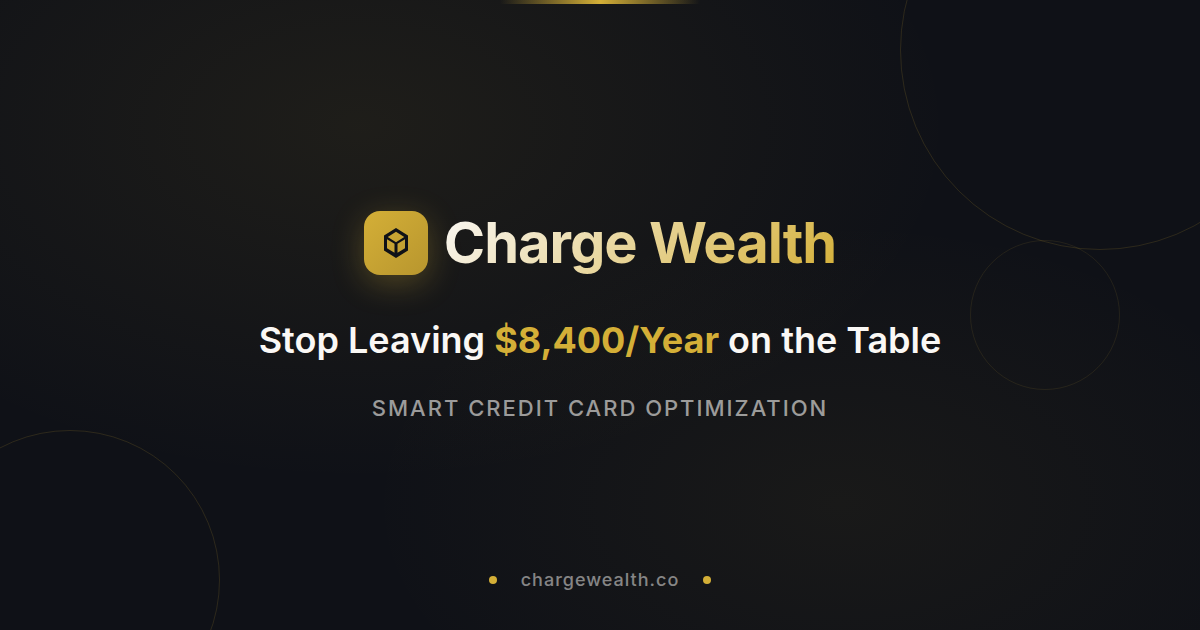
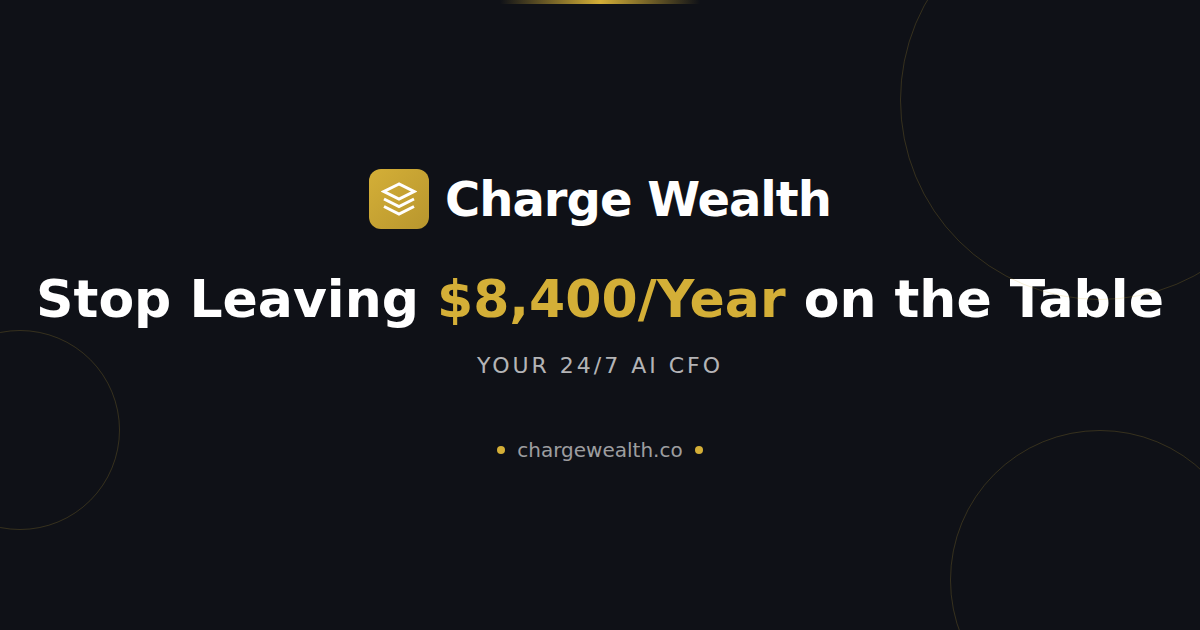
Update OG image: change tagline to 'Your 24/7 AI CFO'

diff --git a/public/og-image-template.html b/public/og-image-template.html
@@ -1,0 +1,145 @@
+<!DOCTYPE html>
+<html>
+<head>
+  <meta charset="UTF-8">
+  <style>
+    * {
+      margin: 0;
+      padding: 0;
+      box-sizing: border-box;
+    }
+    body {
+      width: 1200px;
+      height: 630px;
+      background: #0F1117;
+      font-family: -apple-system, BlinkMacSystemFont, 'Segoe UI', Roboto, sans-serif;
+      display: flex;
+      flex-direction: column;
+      align-items: center;
+      justify-content: center;
+      position: relative;
+      overflow: hidden;
+    }
+    /* Decorative circles */
+    .circle {
+      position: absolute;
+      border-radius: 50%;
+      border: 1px solid rgba(212, 175, 55, 0.2);
+    }
+    .circle-1 {
+      width: 400px;
+      height: 400px;
+      right: -100px;
+      top: -100px;
+    }
+    .circle-2 {
+      width: 300px;
+      height: 300px;
+      right: -50px;
+      bottom: -100px;
+    }
+    .circle-3 {
+      width: 200px;
+      height: 200px;
+      left: -80px;
+      bottom: 100px;
+    }
+    /* Top accent bar */
+    .top-bar {
+      position: absolute;
+      top: 0;
+      left: 50%;
+      transform: translateX(-50%);
+      width: 200px;
+      height: 4px;
+      background: linear-gradient(90deg, transparent, #D4AF37, transparent);
+    }
+    /* Logo and brand */
+    .brand {
+      display: flex;
+      align-items: center;
+      gap: 16px;
+      margin-bottom: 40px;
+    }
+    .logo-box {
+      width: 60px;
+      height: 60px;
+      background: linear-gradient(135deg, #D4AF37, #B8962E);
+      border-radius: 12px;
+      display: flex;
+      align-items: center;
+      justify-content: center;
+    }
+    .logo-icon {
+      width: 36px;
+      height: 36px;
+    }
+    .brand-name {
+      font-size: 48px;
+      font-weight: 700;
+      color: white;
+      letter-spacing: -1px;
+    }
+    /* Main headline */
+    .headline {
+      font-size: 52px;
+      font-weight: 600;
+      color: white;
+      margin-bottom: 24px;
+      text-align: center;
+    }
+    .headline .gold {
+      color: #D4AF37;
+    }
+    /* Tagline */
+    .tagline {
+      font-size: 22px;
+      color: rgba(255, 255, 255, 0.7);
+      letter-spacing: 3px;
+      text-transform: uppercase;
+      margin-bottom: 60px;
+    }
+    /* Footer */
+    .footer {
+      display: flex;
+      align-items: center;
+      gap: 12px;
+      color: rgba(255, 255, 255, 0.6);
+      font-size: 20px;
+    }
+    .dot {
+      width: 8px;
+      height: 8px;
+      background: #D4AF37;
+      border-radius: 50%;
+    }
+  </style>
+</head>
+<body>
+  <div class="circle circle-1"></div>
+  <div class="circle circle-2"></div>
+  <div class="circle circle-3"></div>
+  <div class="top-bar"></div>
+  
+  <div class="brand">
+    <div class="logo-box">
+      <svg class="logo-icon" viewBox="0 0 24 24" fill="none" stroke="white" stroke-width="2">
+        <path d="M12 2L2 7l10 5 10-5-10-5z"/>
+        <path d="M2 17l10 5 10-5"/>
+        <path d="M2 12l10 5 10-5"/>
+      </svg>
+    </div>
+    <span class="brand-name">Charge Wealth</span>
+  </div>
+  
+  <h1 class="headline">Stop Leaving <span class="gold">$8,400/Year</span> on the Table</h1>
+  
+  <p class="tagline">Your 24/7 AI CFO</p>
+  
+  <div class="footer">
+    <span class="dot"></span>
+    <span>chargewealth.co</span>
+    <span class="dot"></span>
+  </div>
+</body>
+</html>
